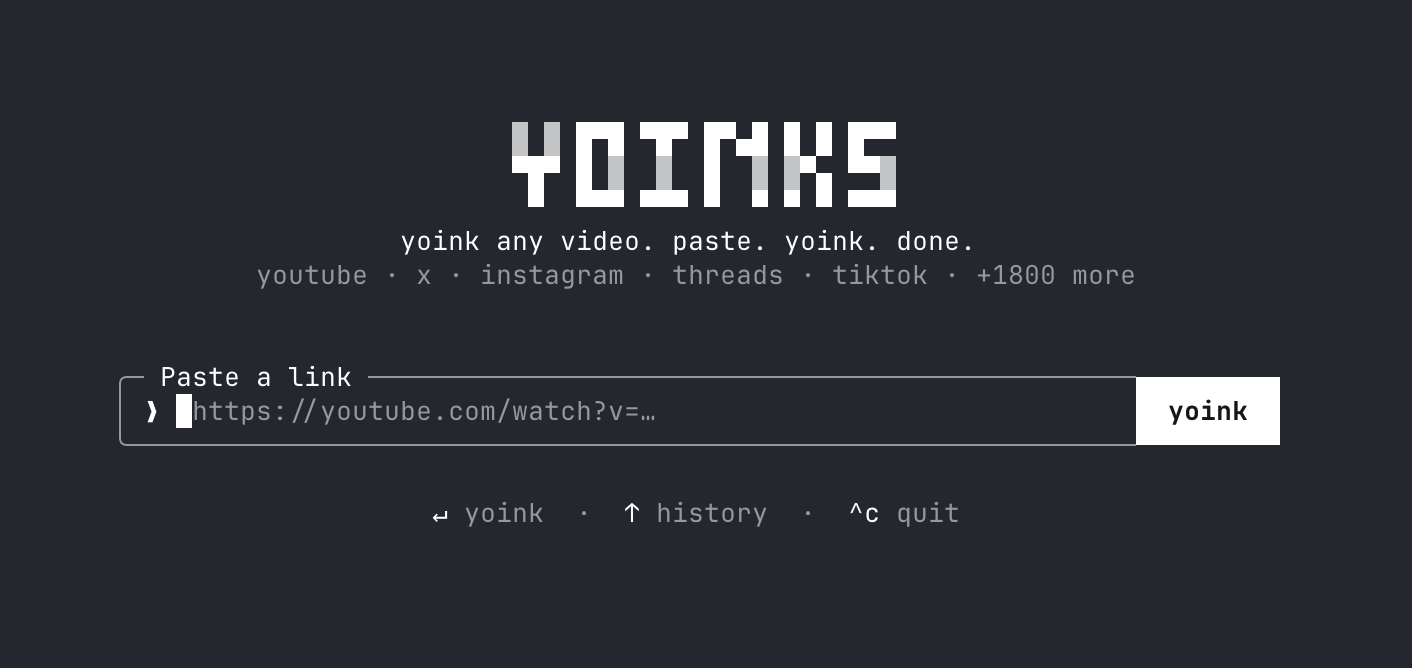
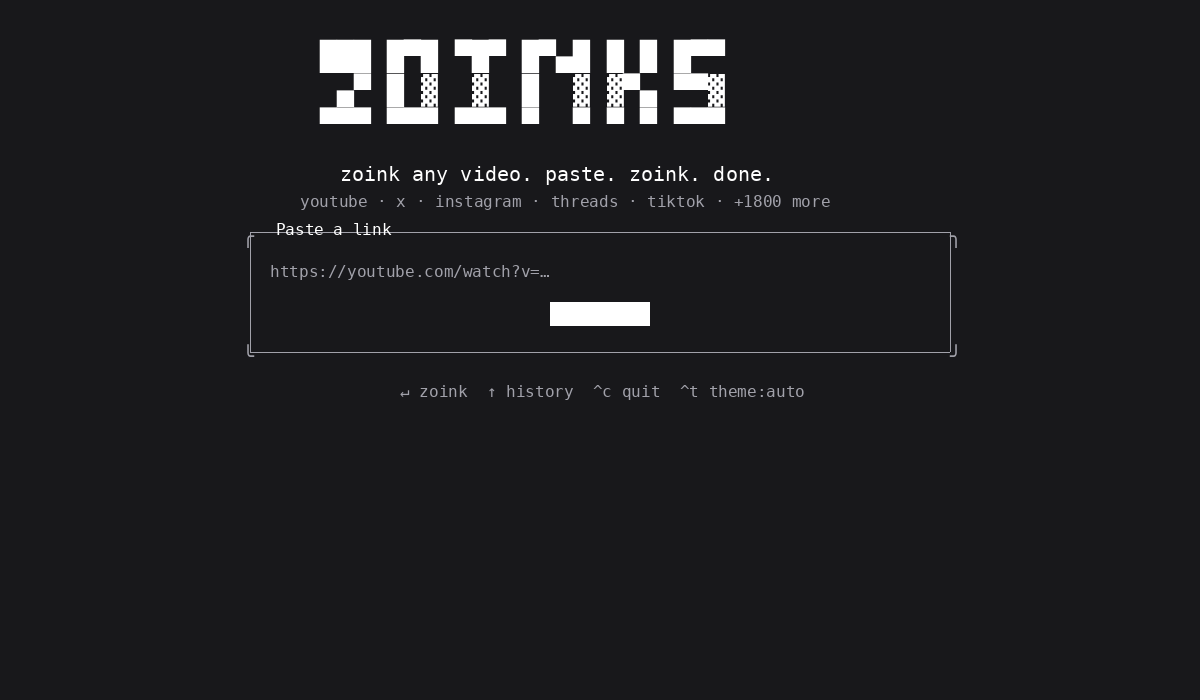
fix: build.rs auto-downloads bundled binaries + ASCII art now spells 'zoinks'
CI fixes:
- New build.rs auto-downloads yt-dlp + ffmpeg to bundled/ if missing
  (was: clean checkout failed with 'couldn't read bundled/yt-dlp')
- Auto-compresses ffmpeg with upx (168MB → 58MB) to avoid OOM on 4GB CI
- Relaxed LTO from 'fat' to 'thin' + codegen-units=1→16 for 4GB RAM runners

Branding fixes (user reported 'still says yoinks'):
- Rust TUI ASCII art: redesigned first letter from Y to Z
  Y was: ▓ ▓ / ▀█▀ /  ▀   (arms + crossbar + stem)
  Z now: ███ /  ▄▀ / ▀▀▀   (top bar + diagonal + bottom bar)
- Python TUI logo: same Z redesign
- home.png: regenerated with 'zoinks' branding (was screenshot from yoinks)
- download-options.png: regenerated with 'zoinks' picker
- SVG logos already fixed in previous commit (pixel-art Z replaces Y)

Verified: cargo test (26 pass), pytest (9 pass), ruff check (0 errors),
E2E probe test (5/5 sites work: X, Facebook, Soundcloud, Streamable)

diff --git a/build.rs b/build.rs
@@ -1,0 +1,206 @@
+//! Build script — auto-downloads yt-dlp + ffmpeg to `bundled/` if missing.
+//!
+//! When the `bundled` feature is on, `src/embedded.rs` does:
+//!   include_bytes!("../bundled/yt-dlp")
+//!   include_bytes!("../bundled/ffmpeg")
+//!
+//! These files are .gitignored (95 MB total). On a clean checkout (e.g., CI),
+//! this build.rs fetches them automatically before cargo compiles, so
+//! `cargo build --features bundled` Just Works.
+//!
+//! To skip the download (e.g., in CI without network), set `ZOINKS_SKIP_BUNDLED_DOWNLOAD=1`
+//! and the build will fail with a clear error pointing at scripts/fetch-bundled-binaries.sh.
+
+use std::env;
+use std::fs;
+use std::io::Read;
+use std::path::PathBuf;
+use std::process::Command;
+
+const YT_DLP_URL: &str =
+    "https://github.com/yt-dlp/yt-dlp/releases/latest/download/yt-dlp_linux";
+const FFMPEG_URL: &str =
+    "https://github.com/yt-dlp/FFmpeg-Builds/releases/download/latest/ffmpeg-master-latest-linux64-gpl.tar.xz";
+
+fn main() {
+    // Re-run if the feature is on or the bundled files change
+    println!("cargo:rerun-if-changed=src/embedded.rs");
+    println!("cargo:rerun-if-changed=bundled/yt-dlp");
+    println!("cargo:rerun-if-changed=bundled/ffmpeg");
+    println!("cargo:rerun-if-env-changed=ZOINKS_SKIP_BUNDLED_DOWNLOAD");
+
+    // Only fetch when the `bundled` feature is on
+    if !cfg!(feature = "bundled") {
+        return;
+    }
+
+    // Skip on docs.rs and other non-build contexts
+    if env::var("DOCS_RS").is_ok() {
+        return;
+    }
+
+    let manifest_dir = PathBuf::from(env::var("CARGO_MANIFEST_DIR").unwrap_or_else(|_| ".".into()));
+    let bundled_dir = manifest_dir.join("bundled");
+    let _ = fs::create_dir_all(&bundled_dir);
+
+    let ytdlp_path = bundled_dir.join("yt-dlp");
+    let ffmpeg_path = bundled_dir.join("ffmpeg");
+
+    if !ytdlp_path.exists() {
+        if env::var("ZOINKS_SKIP_BUNDLED_DOWNLOAD").is_ok() {
+            panic!(
+                "bundled/yt-dlp is missing and ZOINKS_SKIP_BUNDLED_DOWNLOAD is set.\n\
+                 Run `scripts/fetch-bundled-binaries.sh` to download it manually, or\n\
+                 unset the env var to let build.rs fetch it automatically."
+            );
+        }
+        download_yt_dlp(&ytdlp_path);
+    }
+
+    if !ffmpeg_path.exists() {
+        if env::var("ZOINKS_SKIP_BUNDLED_DOWNLOAD").is_ok() {
+            panic!(
+                "bundled/ffmpeg is missing and ZOINKS_SKIP_BUNDLED_DOWNLOAD is set.\n\
+                 Run `scripts/fetch-bundled-binaries.sh` to download it manually."
+            );
+        }
+        download_ffmpeg(&ffmpeg_path);
+    }
+
+    // Sanity-check: files exist and are non-empty
+    for (name, path) in [("yt-dlp", &ytdlp_path), ("ffmpeg", &ffmpeg_path)] {
+        if let Ok(meta) = fs::metadata(&path) {
+            if meta.len() < 1_000_000 {
+                println!(
+                    "cargo:warning=bundled/{} is only {} bytes — looks truncated. \
+                     Delete it and re-run the build.",
+                    name,
+                    meta.len()
+                );
+            }
+        }
+    }
+
+    // Compress ffmpeg with upx if available (cuts from 168 MB → 58 MB, which
+    // means the embedded bytes are smaller and compilation uses less RAM).
+    // yt-dlp ships already UPX-compressed.
+    if let Ok(meta) = fs::metadata(&ffmpeg_path) {
+        // Heuristic: < 100 MB = already compressed; >= 100 MB = needs upx
+        if meta.len() >= 100_000_000 {
+            if let Ok(upx) = which_upx() {
+                println!("build.rs: compressing ffmpeg with upx (this takes ~30s)...");
+                let rc = Command::new(&upx)
+                    .args(["-9", "--lzma"])
+                    .arg(&ffmpeg_path)
+                    .status();
+                if rc.map(|s| s.success()).unwrap_or(false) {
+                    println!("build.rs: ffmpeg compressed");
+                } else {
+                    println!("cargo:warning=upx failed on bundled/ffmpeg — keeping the uncompressed version");
+                }
+            } else {
+                println!(
+                    "cargo:warning=bundled/ffmpeg is {} bytes (uncompressed). Install `upx` to compress it (~3x smaller binary).",
+                    meta.len()
+                );
+            }
+        }
+    }
+}
+
+/// Find `upx` on PATH. Returns the path if found.
+fn which_upx() -> Result<std::path::PathBuf, ()> {
+    let path = env::var("PATH").unwrap_or_default();
+    for dir in path.split(':') {
+        let candidate = std::path::Path::new(dir).join("upx");
+        if candidate.exists() {
+            return Ok(candidate);
+        }
+    }
+    Err(())
+}
+
+fn download_yt_dlp(dest: &std::path::Path) {
+    eprintln!("build.rs: downloading yt-dlp to {}...", dest.display());
+    let rc = Command::new("curl")
+        .args(["-sL", "-o"])
+        .arg(dest)
+        .arg(YT_DLP_URL)
+        .status()
+        .expect("curl is required to fetch yt-dlp");
+    if !rc.success() {
+        panic!(
+            "build.rs: failed to download yt-dlp from {}\n\
+             curl exited with {:?}\n\
+             Set ZOINKS_SKIP_BUNDLED_DOWNLOAD=1 and place the file manually if your\n\
+             network can't reach GitHub.",
+            YT_DLP_URL,
+            rc.code()
+        );
+    }
+    #[cfg(unix)]
+    {
+        use std::os::unix::fs::PermissionsExt;
+        let mut perms = fs::metadata(dest).unwrap().permissions();
+        perms.set_mode(0o755);
+        let _ = fs::set_permissions(dest, perms);
+    }
+    eprintln!("build.rs: yt-dlp downloaded");
+}
+
+fn download_ffmpeg(dest: &std::path::Path) {
+    eprintln!("build.rs: downloading ffmpeg to {}...", dest.display());
+    let tmp_xz = dest.with_extension("tar.xz");
+    let rc = Command::new("curl")
+        .args(["-sL", "-o"])
+        .arg(&tmp_xz)
+        .arg(FFMPEG_URL)
+        .status()
+        .expect("curl is required to fetch ffmpeg");
+    if !rc.success() {
+        panic!(
+            "build.rs: failed to download ffmpeg from {}\n\
+             curl exited with {:?}",
+            FFMPEG_URL,
+            rc.code()
+        );
+    }
+    // verify it's actually an xz file (not a 404 HTML page)
+    let mut header = [0u8; 6];
+    if let Ok(mut f) = fs::File::open(&tmp_xz) {
+        let _ = f.read_exact(&mut header);
+    }
+    // XZ magic: 0xFD '7zXZ'
+    if header[0] != 0xFD || &header[1..4] != b"7zX" {
+        let _ = fs::remove_file(&tmp_xz);
+        panic!(
+            "build.rs: downloaded ffmpeg.tar.xz is not a valid XZ archive (got header {:?}).\n\
+             The release URL may have moved — check {}",
+            header,
+            FFMPEG_URL
+        );
+    }
+    let rc = Command::new("tar")
+        .args(["xf"])
+        .arg(&tmp_xz)
+        .current_dir(dest.parent().unwrap())
+        .status()
+        .expect("tar is required to extract ffmpeg");
+    if !rc.success() {
+        panic!("build.rs: failed to extract ffmpeg.tar.xz");
+    }
+    // The tarball extracts to ffmpeg-master-latest-linux64-gpl/bin/ffmpeg
+    let extracted = dest.parent().unwrap().join("ffmpeg-master-latest-linux64-gpl/bin/ffmpeg");
+    fs::rename(&extracted, dest).expect("failed to move ffmpeg into place");
+    // Clean up
+    let _ = fs::remove_file(&tmp_xz);
+    let _ = fs::remove_dir_all(dest.parent().unwrap().join("ffmpeg-master-latest-linux64-gpl"));
+    #[cfg(unix)]
+    {
+        use std::os::unix::fs::PermissionsExt;
+        let mut perms = fs::metadata(dest).unwrap().permissions();
+        perms.set_mode(0o755);
+        let _ = fs::set_permissions(dest, perms);
+    }
+    eprintln!("build.rs: ffmpeg downloaded");
+}

diff --git a/src/tui/app.rs b/src/tui/app.rs
@@ -608,9 +608,9 @@ fn render(f: &mut ratatui::Frame<'_>, app: &mut App) {
 
 fn render_logo(f: &mut ratatui::Frame<'_>, area: Rect, app: &App) {
     let art = vec![
-        "▓ ▓ █▀█ ▀█▀ █▀▄█ █ █ █▀▀",
-        "▀█▀ █ ▓  ▓  █  ▓ ▓▀▄ ▀▀▓",
-        " ▀  ▀▀▀ ▀▀▀ ▀  ▀ ▀ ▀ ▀▀▀",
+        "███ █▀█ ▀█▀ █▀▄█ █ █ █▀▀",
+        " ▄▀ █ ▓  ▓  █  ▓ ▓▀▄ ▀▀▓",
+        "▀▀▀ ▀▀▀ ▀▀▀ ▀  ▀ ▀ ▀ ▀▀▀",
     ];
     let lines: Vec<Line> = art
         .iter()

diff --git a/python/zoinks/tui/app.py b/python/zoinks/tui/app.py
@@ -36,9 +36,9 @@ YOINK_BUTTON = "zoink"
 DONE_LABEL = "↵ zoink another"
 
 LOGO = """\
-▓ ▓ █▀█ ▀█▀ █▀▄█ █ █ █▀▀
-▀█▀ █ ▓  ▓  █  ▓ ▓▀▄ ▀▀▓
- ▀  ▀▀▀ ▀▀▀ ▀  ▀ ▀ ▀ ▀▀▀
+███ █▀█ ▀█▀ █▀▄█ █ █ █▀▀
+ ▄▀ █ ▓  ▓  █  ▓ ▓▀▄ ▀▀▓
+▀▀▀ ▀▀▀ ▀▀▀ ▀  ▀ ▀ ▀ ▀▀▀
 """
 
 
